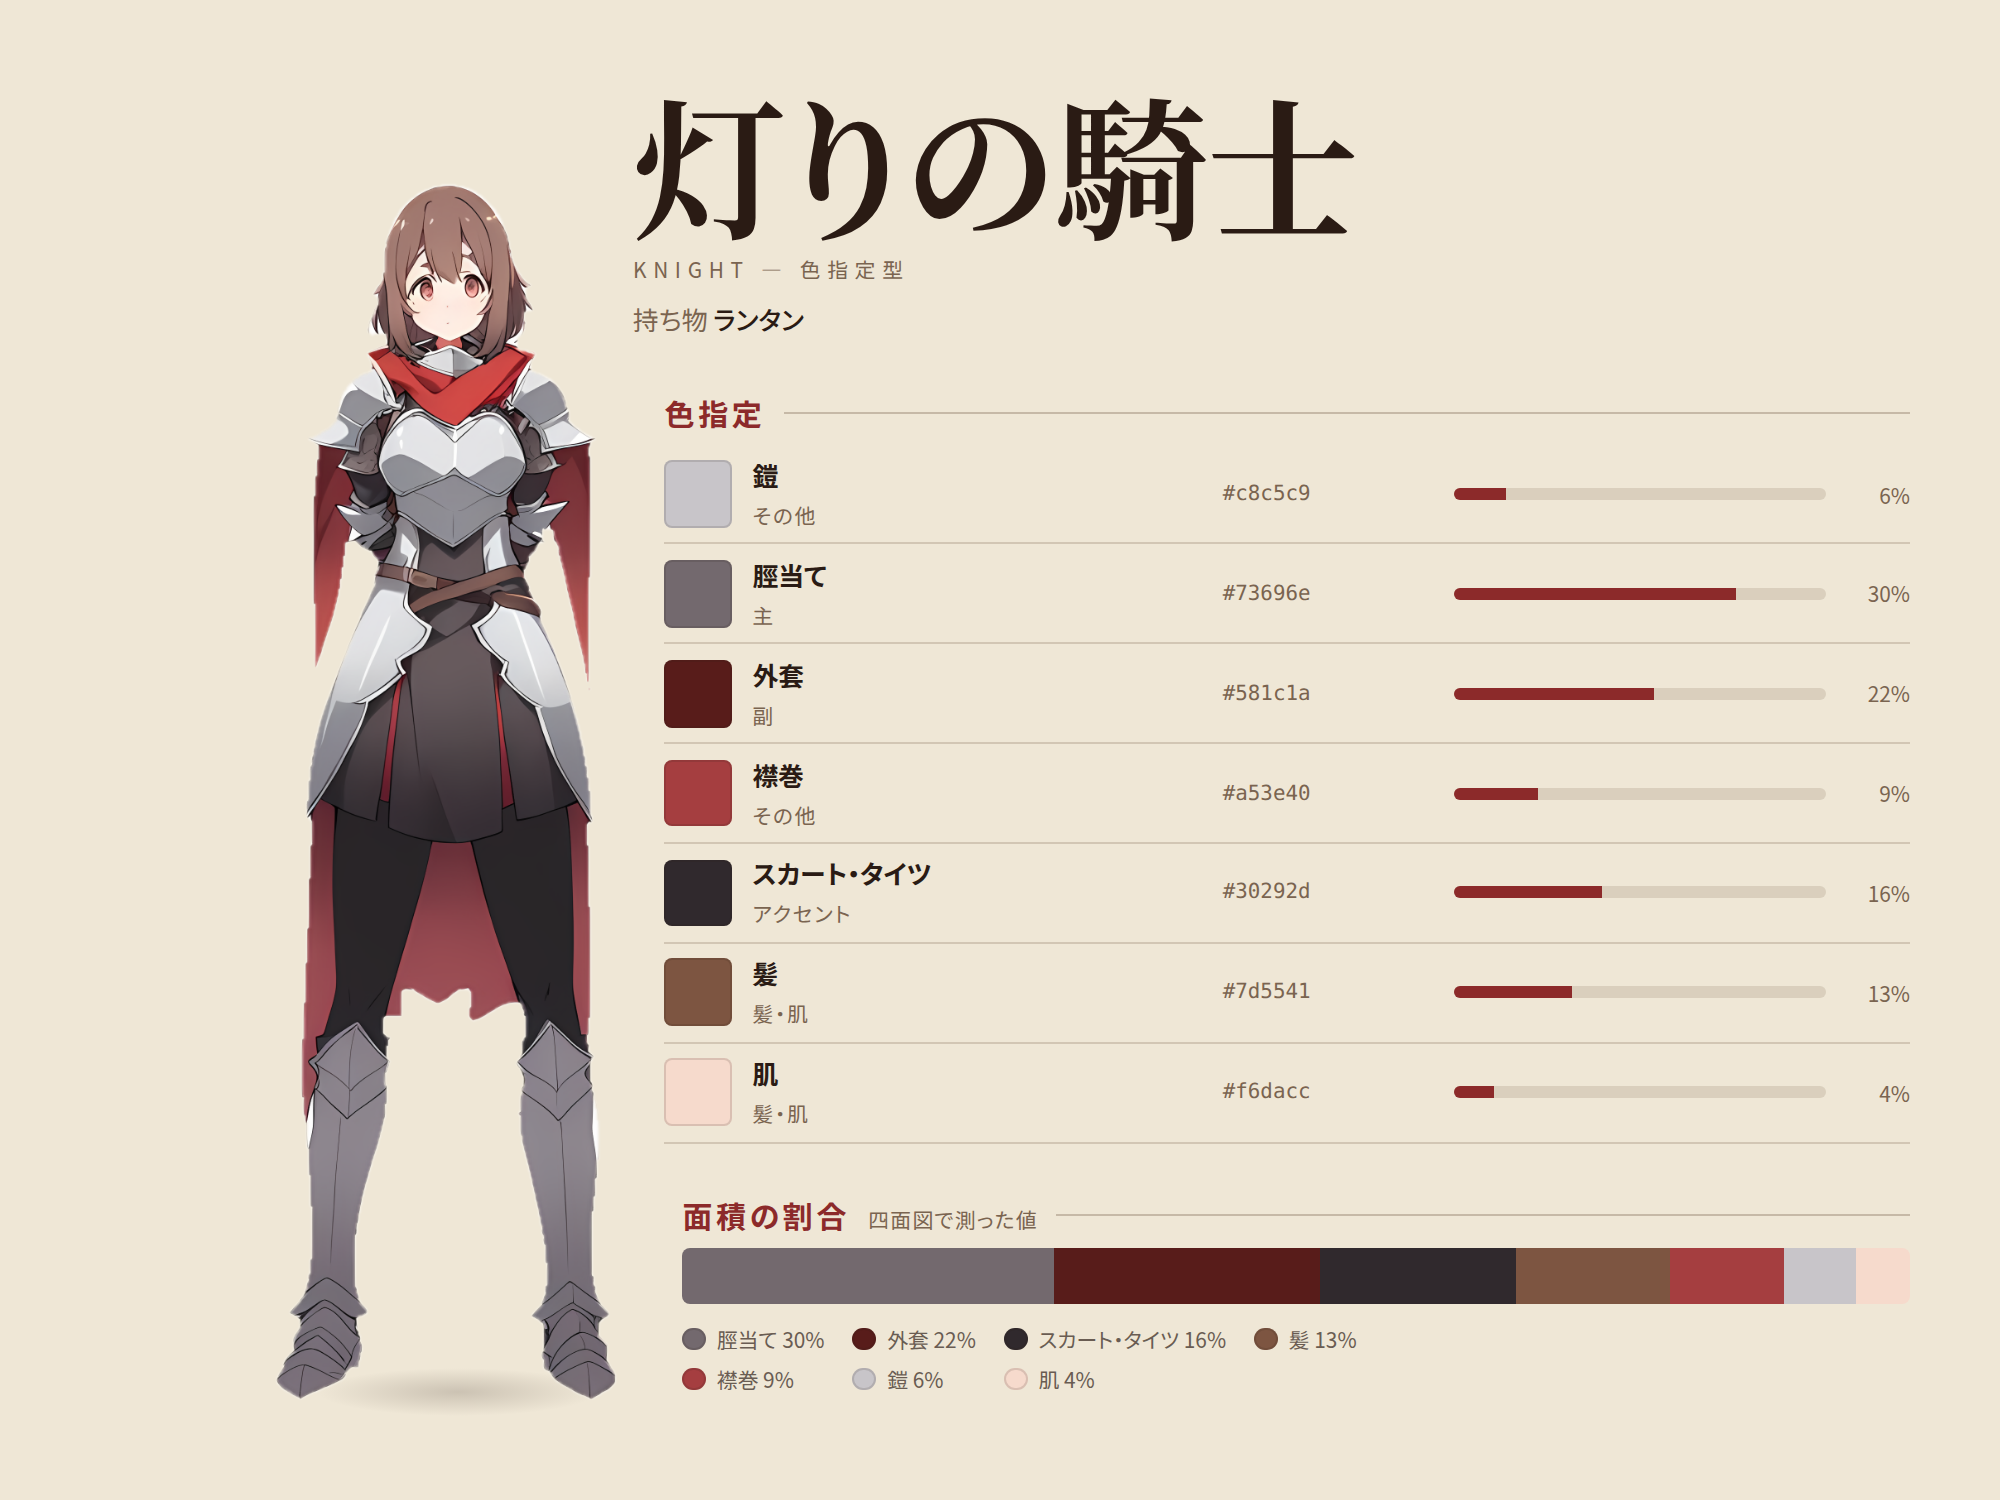
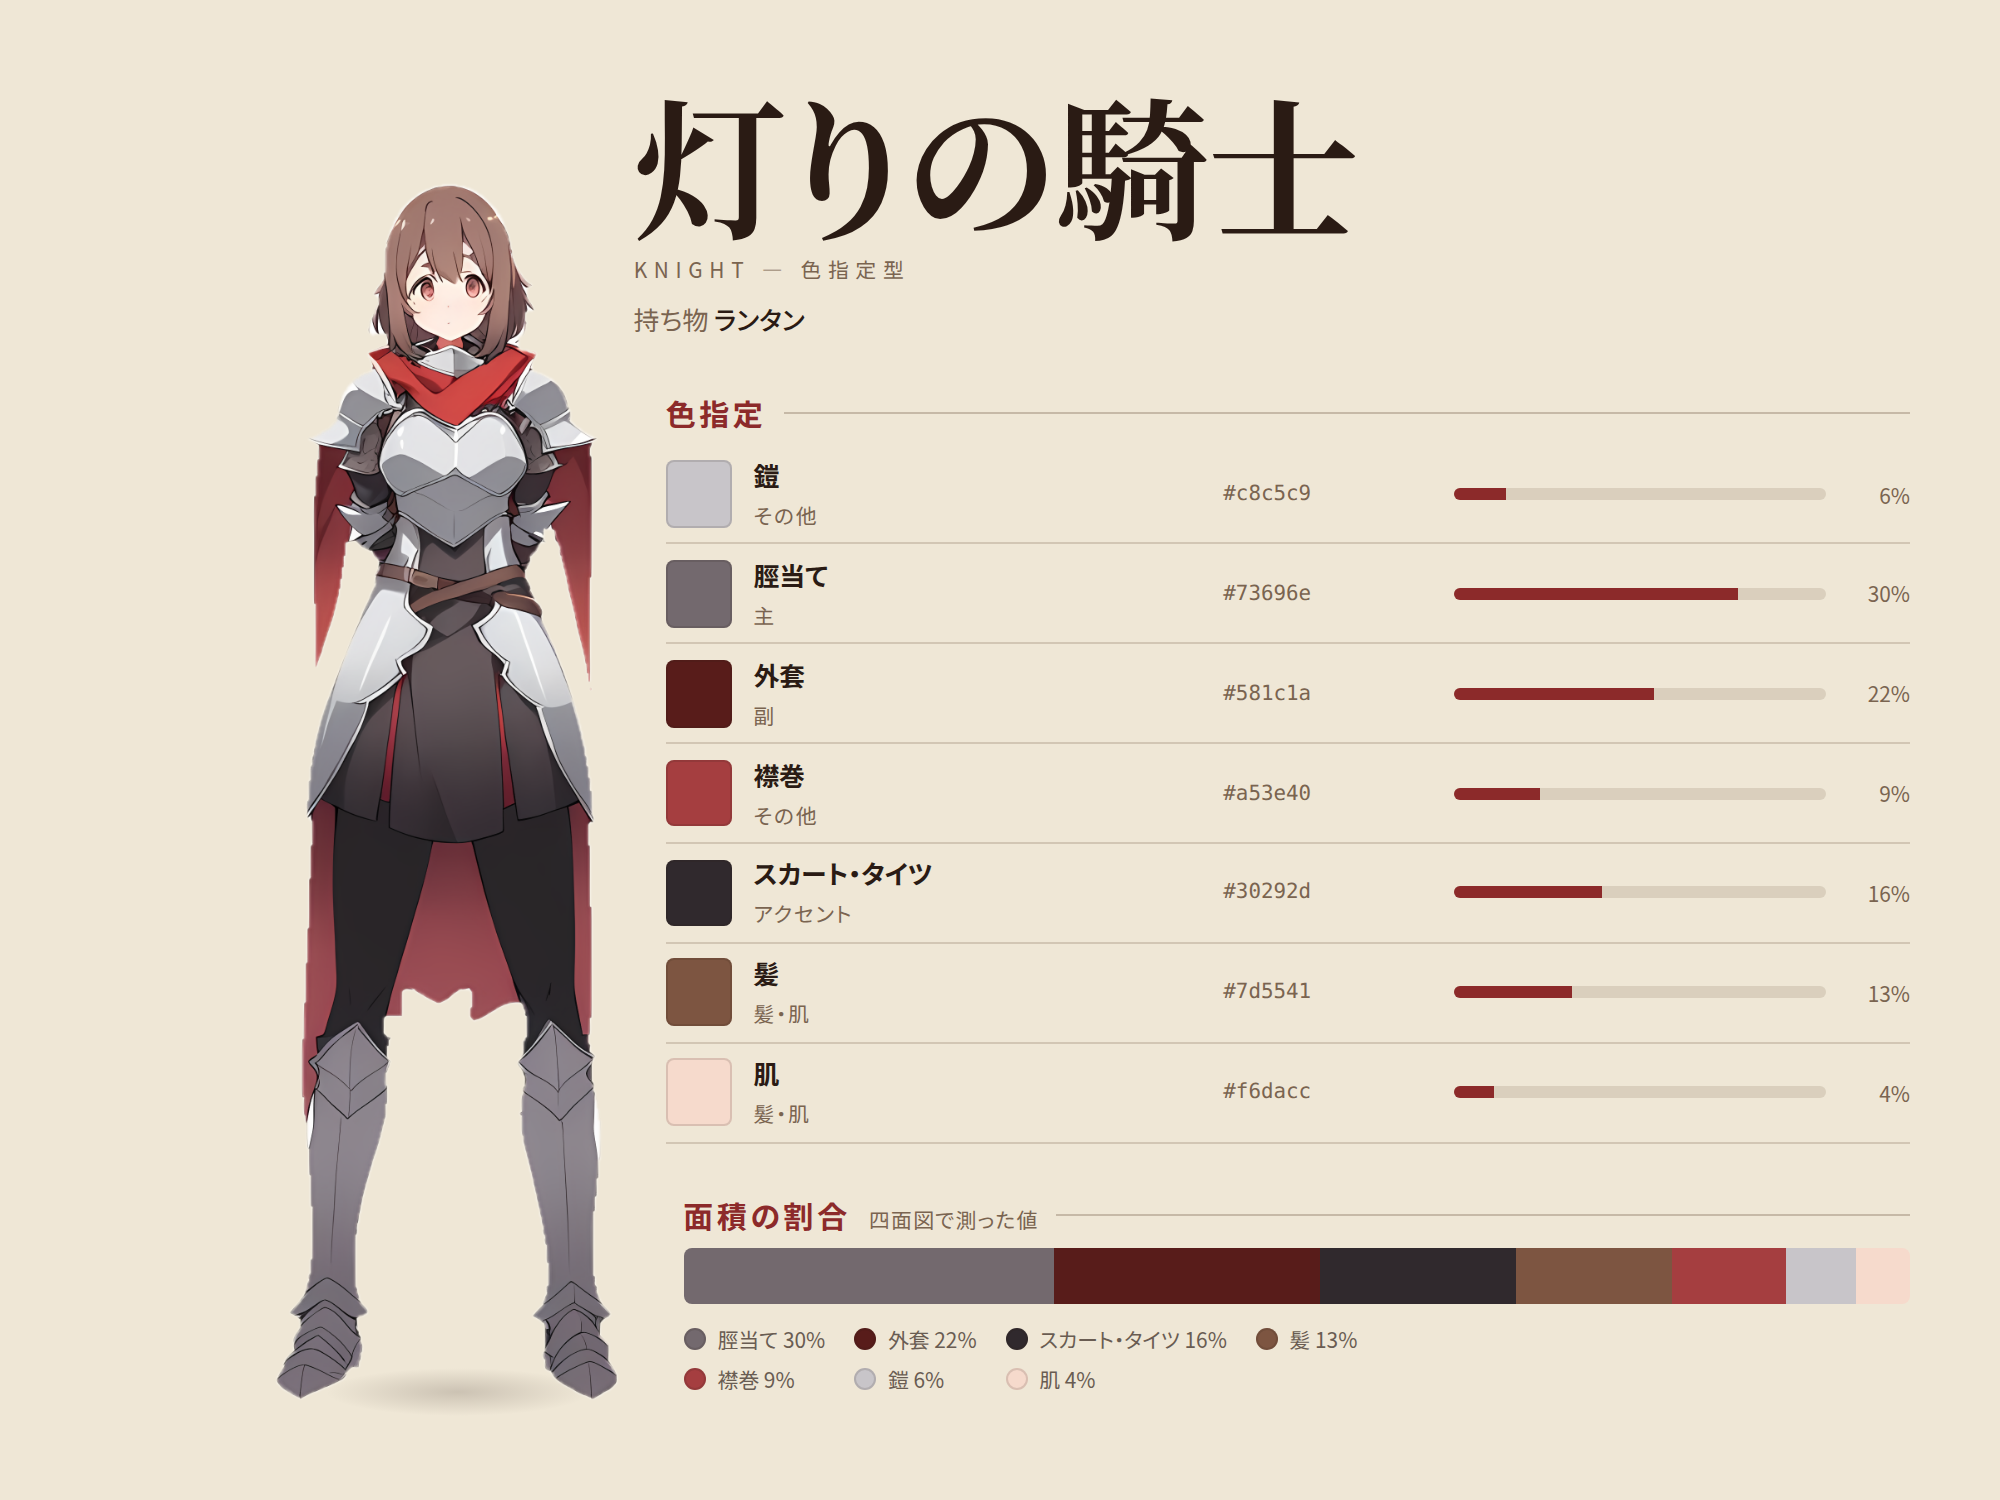
設定画集の四面図の人物を、隣の人物との間の真ん中まで広げて切る
人物の列の幅で切っていたため、騎士の肩当てと外套の端が縦にまっすぐ欠けていた。

Claude-Session: https://claude.ai/code/session_01SckJ2FC4PhB88prMhjDTEV

diff --git a/tools/gen/sheetlayout.py b/tools/gen/sheetlayout.py
@@ -58,9 +58,15 @@ def _figures(c):
     spans, top, bot = cs._figures(im)
     cut = _cut_rgba(im)
     names = VIEW_NAMES.get(len(spans), [""] * len(spans))
-    pad = 6
-    return [(n, cut.crop((max(0, a - pad), max(0, top - pad), min(im.width, b + pad), min(im.height, bot + pad))))
-            for n, (a, b) in zip(names, spans)]
+    # 切る幅は隣の人物との間の真ん中まで広げる。人物の列の幅で切ると、外套や襟巻の端が縦にまっすぐ欠けた
+    out = []
+    for i, (n, (a, b)) in enumerate(zip(names, spans)):
+        lo = 0 if i == 0 else (spans[i - 1][1] + a) // 2
+        hi = im.width if i == len(spans) - 1 else (b + spans[i + 1][0]) // 2
+        piece = cut.crop((lo, max(0, top - 6), hi, min(im.height, bot + 6)))
+        bb = piece.getchannel("A").getbbox() or (0, 0, piece.width, piece.height)
+        out.append((n, piece.crop((bb[0], 0, bb[2], piece.height))))
+    return out
 
 
 def _sharp(c, fig):
